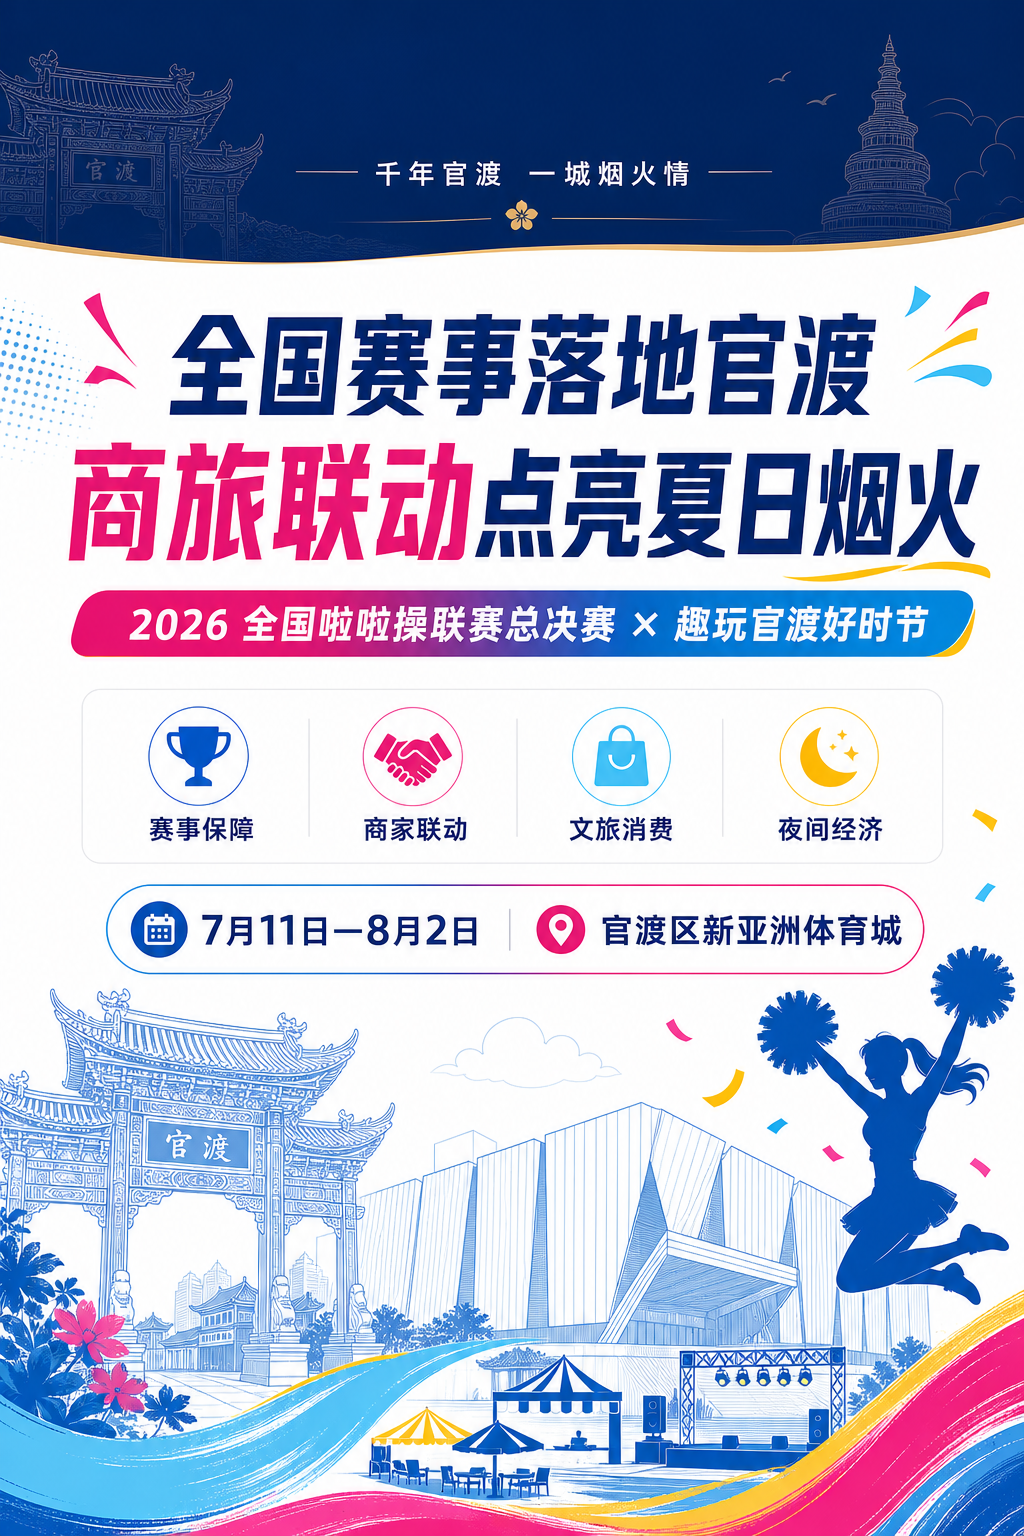
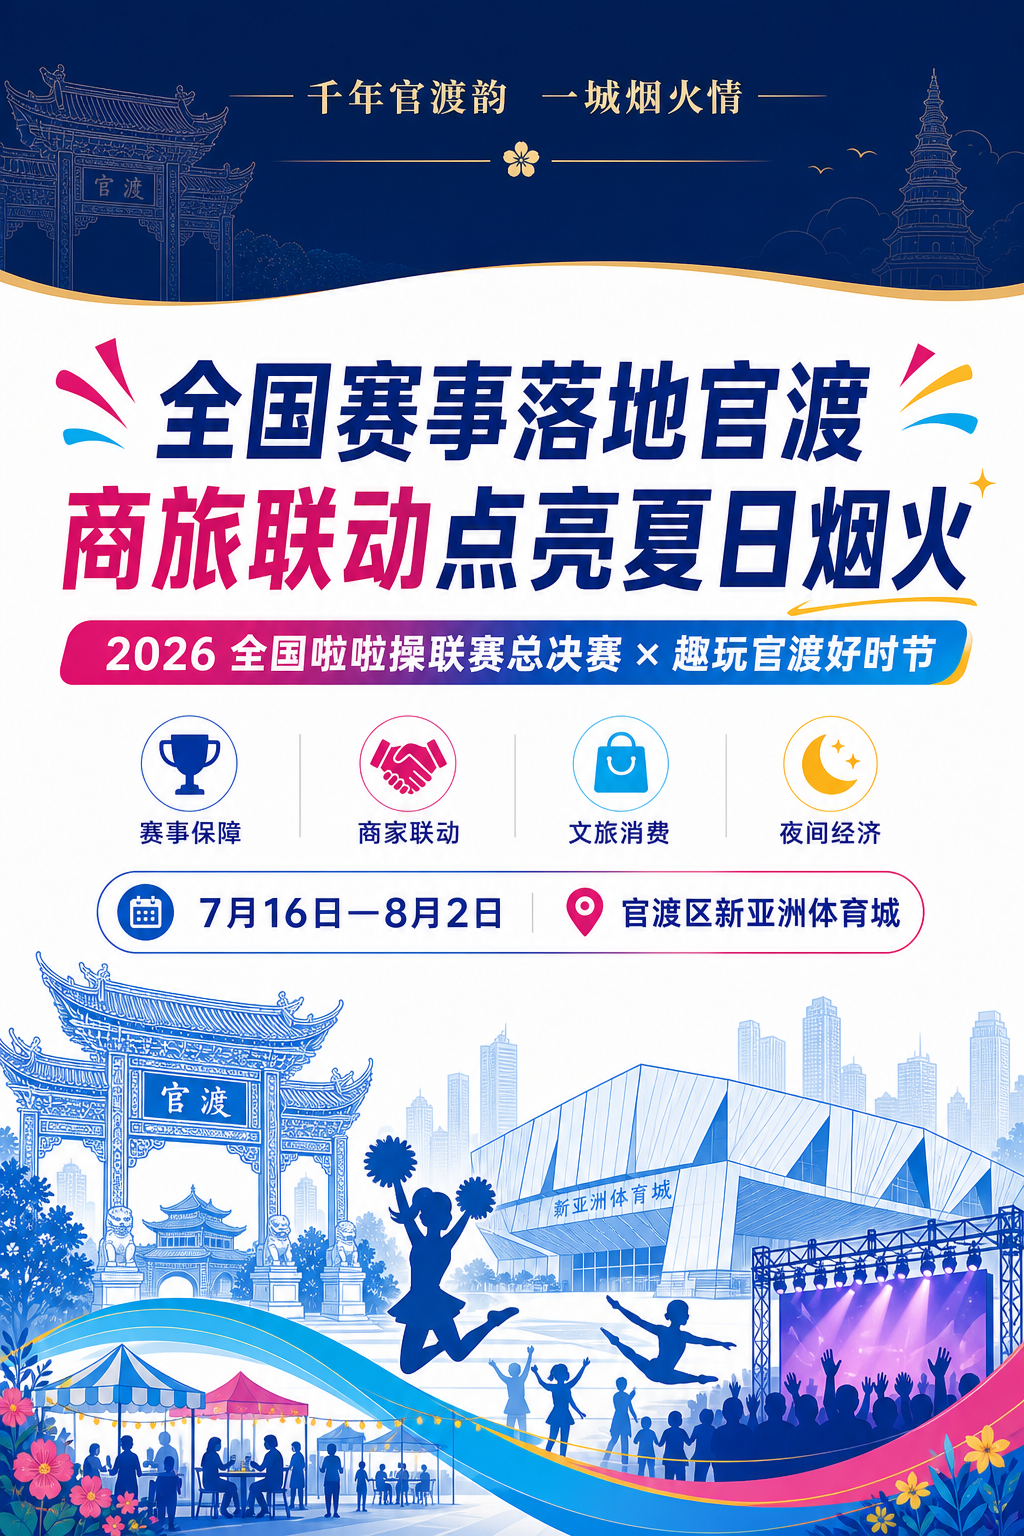
Publish 1080px Xiumi gallery version

diff --git a/index.html b/index.html
@@ -1,60 +1,40 @@
-<!doctype html>
-<html lang="zh-CN">
+<!doctype html>
+<html lang='zh-CN'>
 <head>
-  <meta charset="utf-8">
-  <meta name="viewport" content="width=device-width,initial-scale=1">
-  <title>全国赛事落地官渡，商旅联动点亮夏日烟火 Image2版</title>
+  <meta charset='utf-8'>
+  <meta name='viewport' content='width=device-width,initial-scale=1'>
+  <title>全国赛事落地官渡，商旅联动点亮夏日烟火</title>
 </head>
-<body style="margin:0;padding:0;background:#eaf3f8;">
-<main id="wechatArticle" style="max-width:680px;margin:0 auto;background:#edf6fb;overflow:hidden;">
-  <img src="./assets/01-cover-image2.png" alt="全国赛事落地官渡，商旅联动点亮夏日烟火" style="display:block;width:100%;height:auto;margin:0;padding:0;border:0;">
-  <section style="margin:0;padding:18px 18px 10px;background:#edf6fb;">
-    <img src="./assets/cover-square.png" alt="趣玩官渡好时节主视觉" style="display:block;width:100%;height:auto;margin:0 0 14px;padding:0;border:0;background:#fff;">
-    <img src="./assets/cover-tall.png" alt="趣玩官渡好时节活动信息海报" style="display:block;width:100%;height:auto;margin:0;padding:0;border:0;background:#fff;">
-  </section>
-
-  <img src="./assets/02-why-image2.png" alt="为什么办：以赛事带动城市综合服务" style="display:block;width:100%;height:auto;margin:0;padding:0;border:0;">
-  <section style="margin:0;padding:18px;background:#edf6fb;">
-    <img src="./assets/gate.png" alt="官渡古镇" style="display:block;width:100%;height:auto;margin:0 0 14px;padding:0;border:0;background:#fff;">
-    <img src="./assets/museum.png" alt="云南省博物馆" style="display:block;width:100%;height:auto;margin:0;padding:0;border:0;background:#fff;">
-  </section>
-
-  <img src="./assets/03-service-image2.png" alt="怎么保障：商务部门联动辖区商家" style="display:block;width:100%;height:auto;margin:0;padding:0;border:0;">
-  <section style="margin:0;padding:18px;background:#edf6fb;">
-    <img src="./assets/event-banner.png" alt="旅游综合保障服务横幅" style="display:block;width:100%;height:auto;margin:0 0 14px;padding:0;border:0;background:#fff;">
-    <img src="./assets/bus-service.png" alt="2026 年全国啦啦操联赛旅游综合保障服务" style="display:block;width:100%;height:auto;margin:0 0 14px;padding:0;border:0;background:#fff;">
-    <img src="./assets/market.png" alt="官渡商家与好物市集" style="display:block;width:100%;height:auto;margin:0 0 14px;padding:0;border:0;background:#fff;">
-    <img src="./assets/gift-bag.png" alt="官渡商投大礼包" style="display:block;width:100%;height:auto;margin:0;padding:0;border:0;background:#fff;">
-  </section>
-
-  <img src="./assets/04-experience-image2.png" alt="有什么：全民艺术节点亮夏日夜间场景" style="display:block;width:100%;height:auto;margin:0;padding:0;border:0;">
-  <section style="margin:0;padding:18px;background:#edf6fb;">
-    <img src="./assets/stage-render.png" alt="滇风大舞台视觉" style="display:block;width:100%;height:auto;margin:0 0 14px;padding:0;border:0;background:#fff;">
-    <img src="./assets/stage-live.png" alt="现场演艺活动" style="display:block;width:100%;height:auto;margin:0 0 14px;padding:0;border:0;background:#fff;">
-    <img src="./assets/night-market.png" alt="夜间市集与活动场景" style="display:block;width:100%;height:auto;margin:0 0 14px;padding:0;border:0;background:#fff;">
-    <img src="./assets/slogan.png" alt="这个夏天来官渡赴一场烟火之约" style="display:block;width:100%;height:auto;margin:0 0 14px;padding:0;border:0;background:#fff;">
-    <img src="./assets/mascot-food.png" alt="官渡吉祥物提篮形象" style="display:block;width:100%;height:auto;margin:0 0 14px;padding:0;border:0;background:#fff;">
-    <img src="./assets/dialect.png" alt="云南方言互动内容" style="display:block;width:100%;height:auto;margin:0;padding:0;border:0;background:#fff;">
-  </section>
-
-  <img src="./assets/05-theme-weeks-image2.png" alt="三大主题周：把夏日玩法讲清楚" style="display:block;width:100%;height:auto;margin:0;padding:0;border:0;">
-  <section style="margin:0;padding:18px;background:#edf6fb;">
-    <img src="./assets/pompom.png" alt="POMPOM 炸场多巴胺市集" style="display:block;width:100%;height:auto;margin:0 0 14px;padding:0;border:0;background:#fff;">
-    <img src="./assets/chill.png" alt="CHILL 蔬适姿态全民吃瓜节" style="display:block;width:100%;height:auto;margin:0 0 14px;padding:0;border:0;background:#fff;">
-    <img src="./assets/jier.png" alt="JIER 菌情投入山野奇幻夜" style="display:block;width:100%;height:auto;margin:0;padding:0;border:0;background:#fff;">
-  </section>
-
-  <section style="margin:0;padding:18px;background:#edf6fb;">
-    <img src="./assets/brand-square.png" alt="趣玩官渡好时节方形视觉" style="display:block;width:100%;height:auto;margin:0 0 14px;padding:0;border:0;background:#fff;">
-    <img src="./assets/landmark-gate.png" alt="官渡地标牌楼插画" style="display:block;width:100%;height:auto;margin:0 0 14px;padding:0;border:0;background:#fff;">
-    <img src="./assets/landmark-temple.png" alt="妙湛寺金刚塔插画" style="display:block;width:100%;height:auto;margin:0 0 14px;padding:0;border:0;background:#fff;">
-    <img src="./assets/summer-invite.png" alt="这个夏天来官渡赴一场烟火之约视觉" style="display:block;width:100%;height:auto;margin:0;padding:0;border:0;background:#fff;">
-  </section>
-
-  <img src="./assets/06-closing-image2.png" alt="这个夏天，来官渡赴一场烟火之约" style="display:block;width:100%;height:auto;margin:0;padding:0;border:0;">
-  <section style="margin:0;padding:18px 18px 28px;background:#edf6fb;">
-    <img src="./assets/final-poster.jpg" alt="趣玩官渡好时节合作伙伴征集总图" style="display:block;width:100%;height:auto;margin:0;padding:0;border:0;background:#fff;">
-  </section>
+<body style='margin:0;padding:0;background:#eaf3f8;'>
+<main id='wechatArticle' style='max-width:680px;margin:0 auto;background:#edf6fb;overflow:hidden;'>
+  <img src='./xiumi-gallery-1080/01-首图-赛事落地官渡.jpg' alt='01-首图-赛事落地官渡.jpg' style='display:block;width:100%;height:auto;margin:0;padding:0;border:0;'>
+  <img src='./xiumi-gallery-1080/02-活动主视觉.jpg' alt='02-活动主视觉.jpg' style='display:block;width:100%;height:auto;margin:0;padding:0;border:0;'>
+  <img src='./xiumi-gallery-1080/03-活动信息海报.jpg' alt='03-活动信息海报.jpg' style='display:block;width:100%;height:auto;margin:0;padding:0;border:0;'>
+  <img src='./xiumi-gallery-1080/04-为什么办.jpg' alt='04-为什么办.jpg' style='display:block;width:100%;height:auto;margin:0;padding:0;border:0;'>
+  <img src='./xiumi-gallery-1080/05-官渡古镇.jpg' alt='05-官渡古镇.jpg' style='display:block;width:100%;height:auto;margin:0;padding:0;border:0;'>
+  <img src='./xiumi-gallery-1080/06-云南省博物馆.jpg' alt='06-云南省博物馆.jpg' style='display:block;width:100%;height:auto;margin:0;padding:0;border:0;'>
+  <img src='./xiumi-gallery-1080/07-怎么保障.jpg' alt='07-怎么保障.jpg' style='display:block;width:100%;height:auto;margin:0;padding:0;border:0;'>
+  <img src='./xiumi-gallery-1080/08-旅游综合保障横幅.jpg' alt='08-旅游综合保障横幅.jpg' style='display:block;width:100%;height:auto;margin:0;padding:0;border:0;'>
+  <img src='./xiumi-gallery-1080/09-旅游综合保障服务.jpg' alt='09-旅游综合保障服务.jpg' style='display:block;width:100%;height:auto;margin:0;padding:0;border:0;'>
+  <img src='./xiumi-gallery-1080/10-商家与好物市集.jpg' alt='10-商家与好物市集.jpg' style='display:block;width:100%;height:auto;margin:0;padding:0;border:0;'>
+  <img src='./xiumi-gallery-1080/11-官渡商投大礼包.jpg' alt='11-官渡商投大礼包.jpg' style='display:block;width:100%;height:auto;margin:0;padding:0;border:0;'>
+  <img src='./xiumi-gallery-1080/12-有什么.jpg' alt='12-有什么.jpg' style='display:block;width:100%;height:auto;margin:0;padding:0;border:0;'>
+  <img src='./xiumi-gallery-1080/13-滇风大舞台视觉.jpg' alt='13-滇风大舞台视觉.jpg' style='display:block;width:100%;height:auto;margin:0;padding:0;border:0;'>
+  <img src='./xiumi-gallery-1080/14-现场演艺活动.jpg' alt='14-现场演艺活动.jpg' style='display:block;width:100%;height:auto;margin:0;padding:0;border:0;'>
+  <img src='./xiumi-gallery-1080/15-夜间市集场景.jpg' alt='15-夜间市集场景.jpg' style='display:block;width:100%;height:auto;margin:0;padding:0;border:0;'>
+  <img src='./xiumi-gallery-1080/16-烟火之约视觉.jpg' alt='16-烟火之约视觉.jpg' style='display:block;width:100%;height:auto;margin:0;padding:0;border:0;'>
+  <img src='./xiumi-gallery-1080/17-吉祥物提篮形象.jpg' alt='17-吉祥物提篮形象.jpg' style='display:block;width:100%;height:auto;margin:0;padding:0;border:0;'>
+  <img src='./xiumi-gallery-1080/18-云南方言互动.jpg' alt='18-云南方言互动.jpg' style='display:block;width:100%;height:auto;margin:0;padding:0;border:0;'>
+  <img src='./xiumi-gallery-1080/19-三大主题周.jpg' alt='19-三大主题周.jpg' style='display:block;width:100%;height:auto;margin:0;padding:0;border:0;'>
+  <img src='./xiumi-gallery-1080/20-POMPOM炸场多巴胺市集.jpg' alt='20-POMPOM炸场多巴胺市集.jpg' style='display:block;width:100%;height:auto;margin:0;padding:0;border:0;'>
+  <img src='./xiumi-gallery-1080/21-CHILL全民吃瓜节.jpg' alt='21-CHILL全民吃瓜节.jpg' style='display:block;width:100%;height:auto;margin:0;padding:0;border:0;'>
+  <img src='./xiumi-gallery-1080/22-JIER山野奇幻夜.jpg' alt='22-JIER山野奇幻夜.jpg' style='display:block;width:100%;height:auto;margin:0;padding:0;border:0;'>
+  <img src='./xiumi-gallery-1080/23-方形主视觉.jpg' alt='23-方形主视觉.jpg' style='display:block;width:100%;height:auto;margin:0;padding:0;border:0;'>
+  <img src='./xiumi-gallery-1080/24-官渡地标牌楼插画.jpg' alt='24-官渡地标牌楼插画.jpg' style='display:block;width:100%;height:auto;margin:0;padding:0;border:0;'>
+  <img src='./xiumi-gallery-1080/25-妙湛寺金刚塔插画.jpg' alt='25-妙湛寺金刚塔插画.jpg' style='display:block;width:100%;height:auto;margin:0;padding:0;border:0;'>
+  <img src='./xiumi-gallery-1080/26-夏天来官渡.jpg' alt='26-夏天来官渡.jpg' style='display:block;width:100%;height:auto;margin:0;padding:0;border:0;'>
+  <img src='./xiumi-gallery-1080/27-收尾邀请.jpg' alt='27-收尾邀请.jpg' style='display:block;width:100%;height:auto;margin:0;padding:0;border:0;'>
+  <img src='./xiumi-gallery-1080/28-合作伙伴征集总图.jpg' alt='28-合作伙伴征集总图.jpg' style='display:block;width:100%;height:auto;margin:0;padding:0;border:0;'>
 </main>
 </body>
 </html>